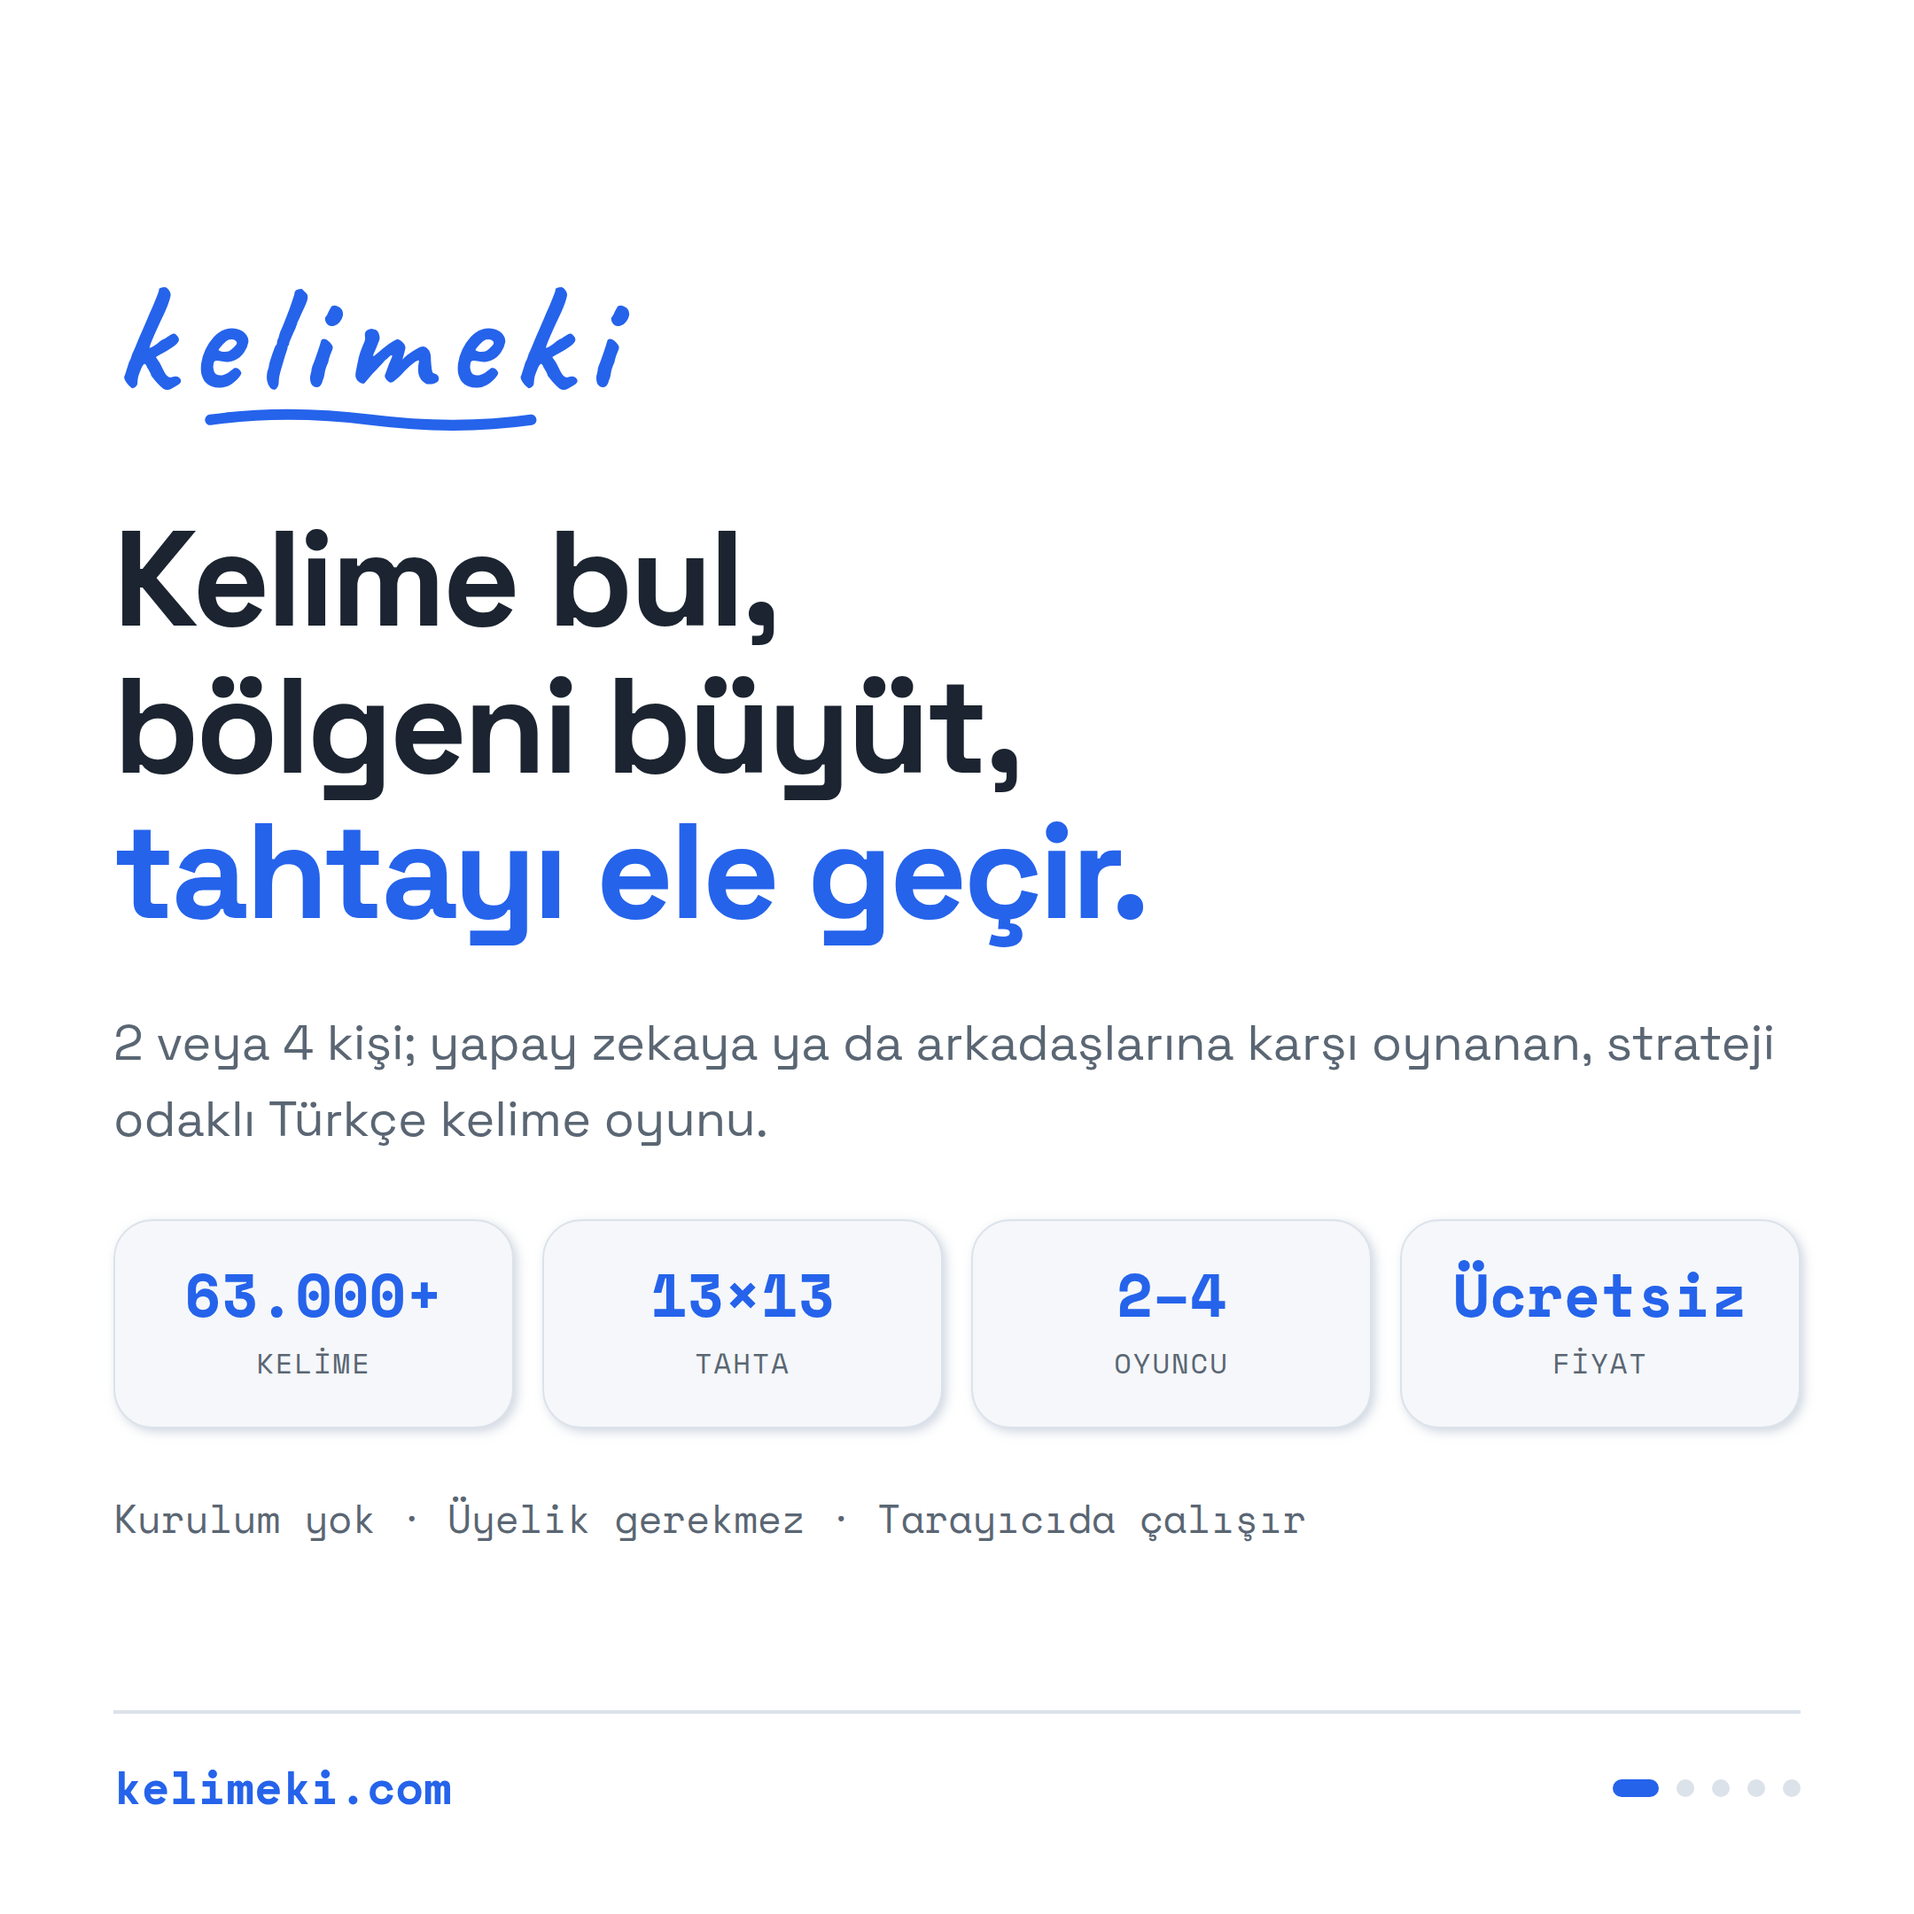
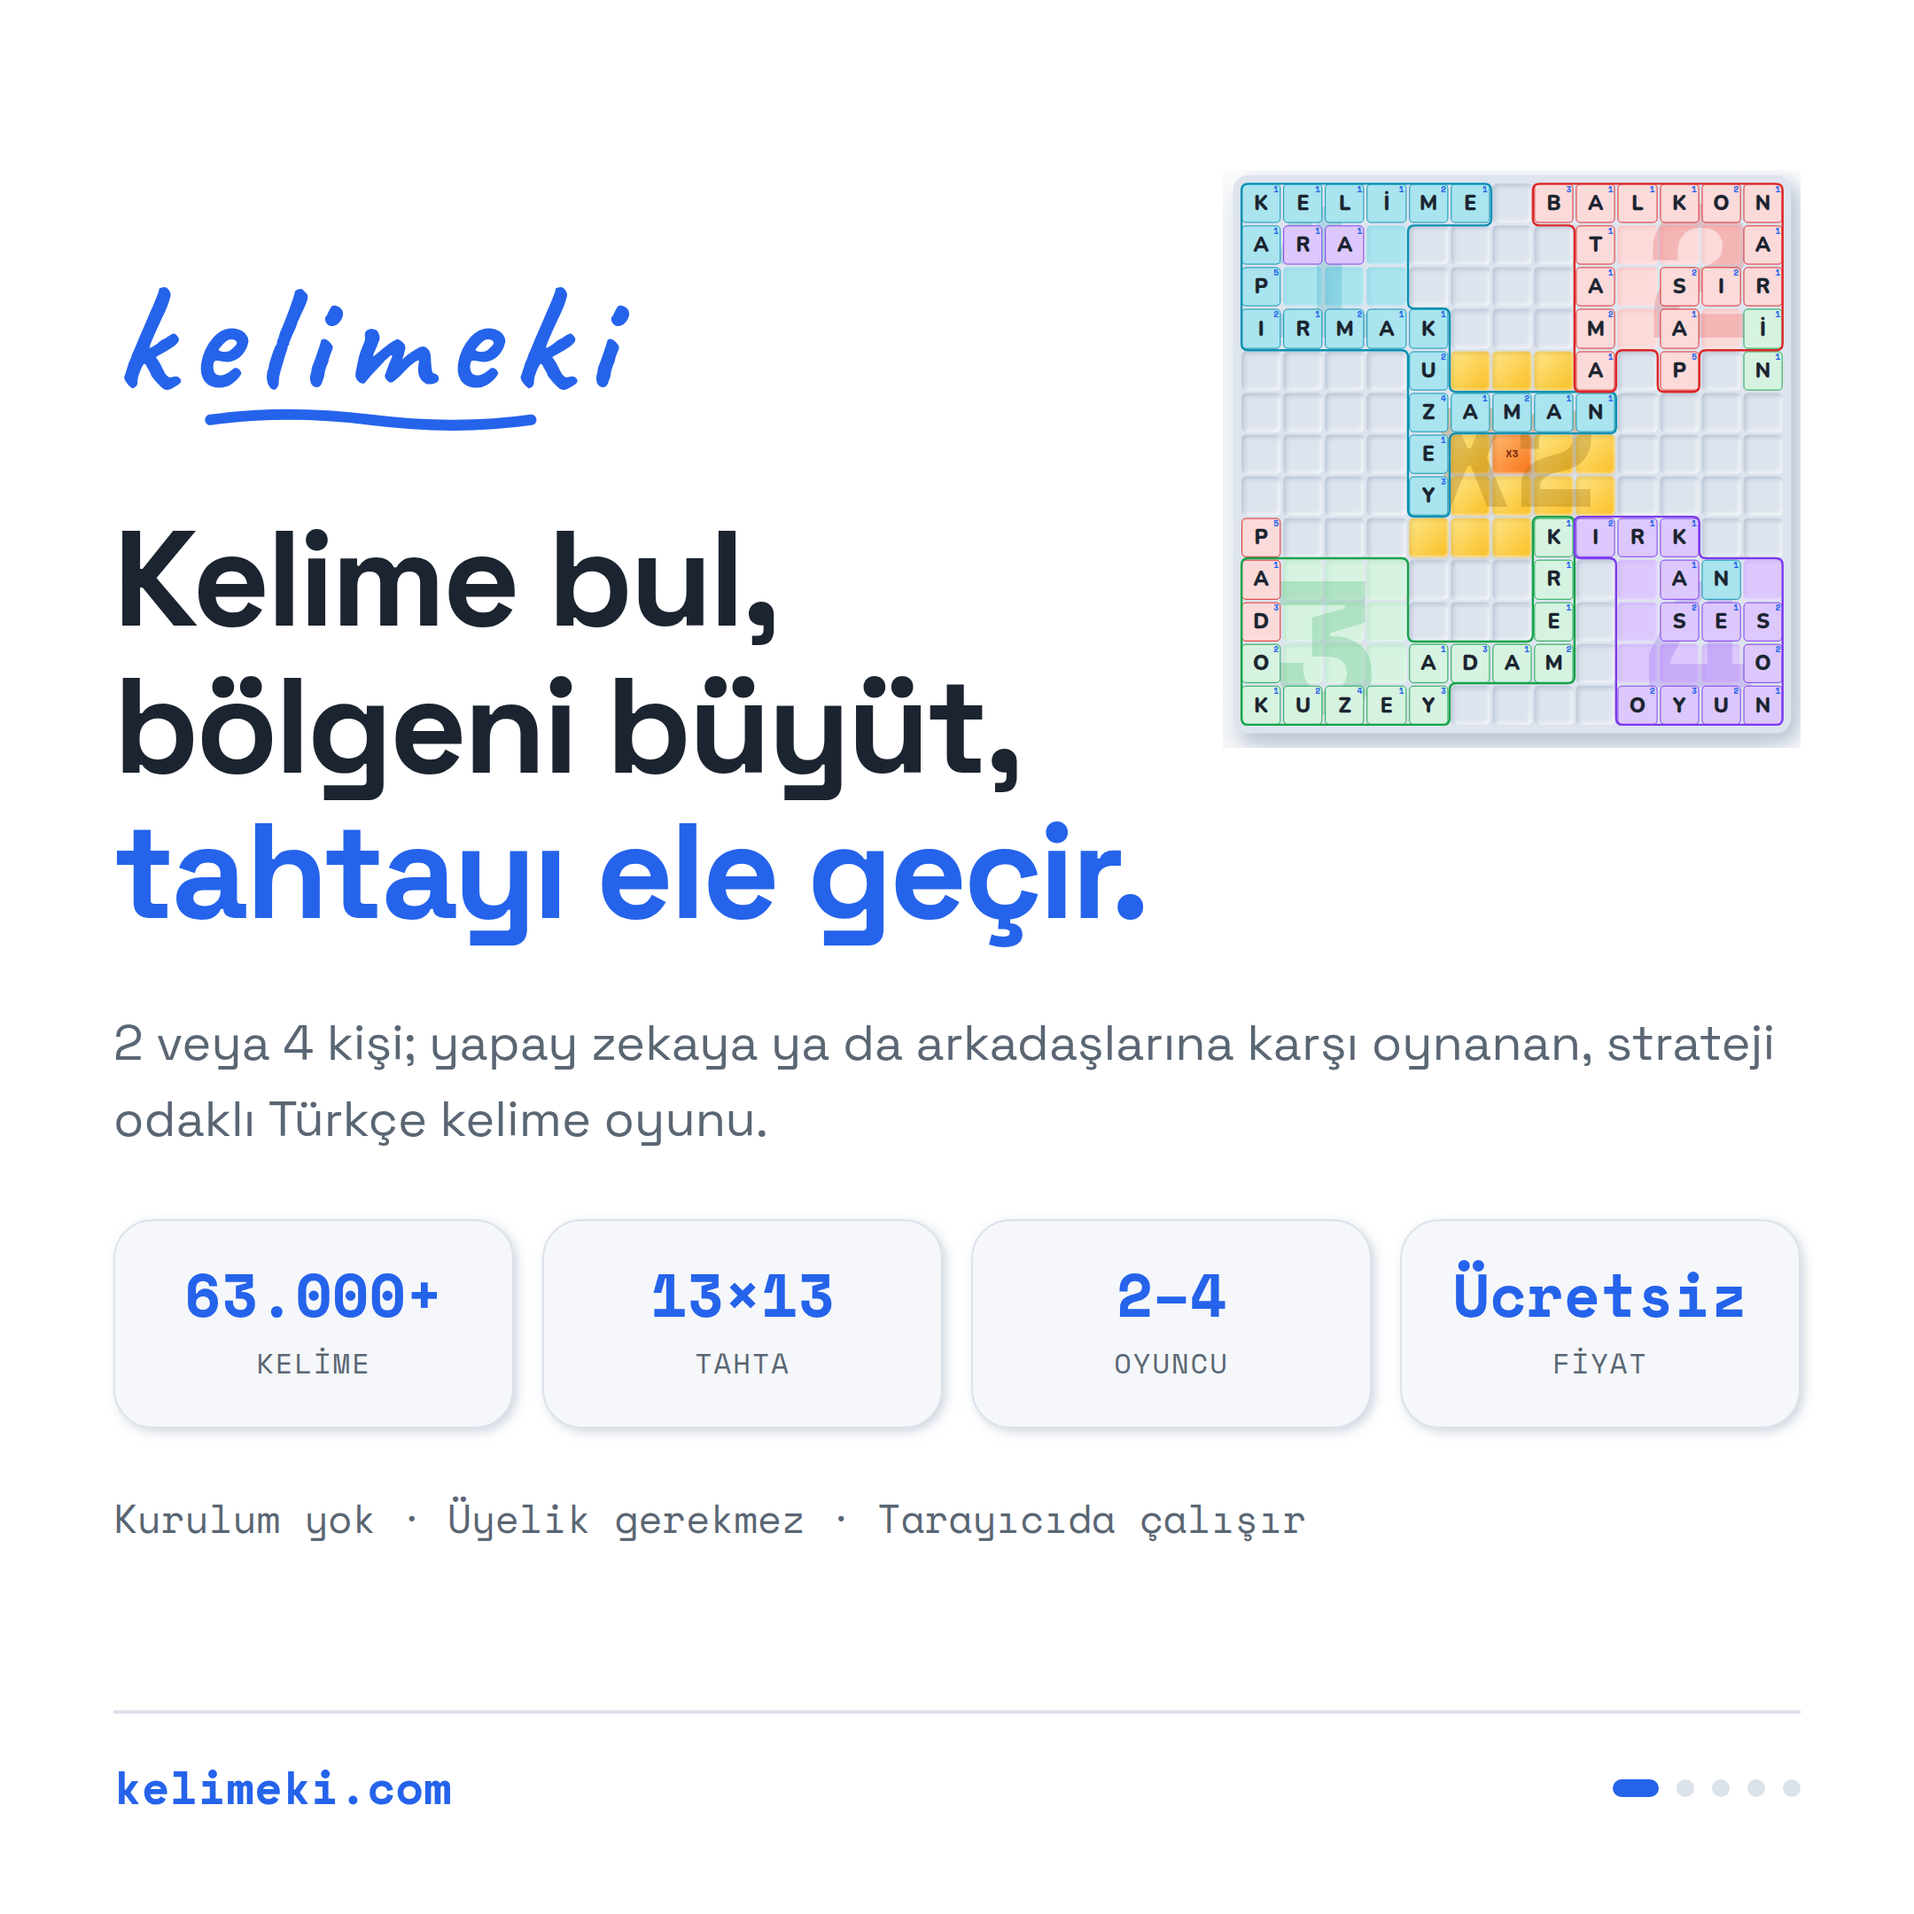
Kanca karesinin sağ üst boşluğuna 4 kişilik tahta
Kare 1'de oyundan hiç görüntü yoktu ve sağ üst köşe boştu; oraya 4 kişilik
tanıtım tahtası kondu (mutlak konumlu — akışa girseydi dikeyde ortalanan
metin bloğunu yerinden oynatırdı).

Ölçü tahminle değil mürekkeple seçildi: h1'in KUTUSU tam genişlikte ama en
uzun satırının mürekkebi x=647'de bitiyor ve üçüncü satır y=443'te başlıyor.
İlk deneme (scale 0.52, top 100) tahtayı x=662'ye koyuyor, yatayda yalnızca
15 px bırakıyor ve alt kenarı üçüncü satırın hizasına giriyordu. Nihai değer
(scale 0.48, top 96) tahtayı 690–1016 × 96–422'ye oturtuyor: metinle yatay
boşluk 42.4 px, üçüncü satırla dikey çakışma yok, beş karede de taşma 0.

Öteki dört PNG bayt bayt aynı kaldı — Slide'a eklenen position:relative'in
yan etkisi olmadığının kanıtı.

Claude-Session: https://claude.ai/code/session_01FaUXUCqTzNWuBtY4ZxMgeJ

Changed region(s): [[0.6204, 0.0931, 0.9616, 0.4032]]

diff --git a/scripts/sponsored-post/SponsoredPost.tsx b/scripts/sponsored-post/SponsoredPost.tsx
@@ -151,6 +151,9 @@ function Slide({ no, children }: { no: number; children: React.ReactNode }) {
         display: 'flex',
         flexDirection: 'column',
         overflow: 'hidden',
+        // Kare 1'in sağ üstündeki tahta MUTLAK konumlu — akışa girseydi
+        // dikeyde ortalanan metin bloğunu yerinden oynatırdı.
+        position: 'relative',
       }}
     >
       {children}
@@ -399,6 +402,32 @@ export function SponsoredPost() {
 
       {/* ── 1 · Kanca ──────────────────────────────────────────────────── */}
       <Slide no={1}>
+        {/* Sağ üst köşe boştu; kanca karesinde oyundan HİÇ görüntü yoktu.
+            ⚠ Ölçü tahminle DEĞİL mürekkeple seçildi (1080 CSS px): kahraman
+            başlığın KUTUSU tam genişlikte, ama en uzun satırının mürekkebi
+            x=647'de bitiyor ve üçüncü satır y=443'te başlıyor. İlk deneme
+            (scale 0.52, top 100) tahtayı x=662'ye koyuyordu — yatayda yalnızca
+            15 px kalıyor ve tahtanın alt kenarı üçüncü satırın hizasına
+            giriyordu. Bugünkü değerlerle tahta 690–1016 × 96–422: metinle
+            yatay boşluk ~43 px ve üçüncü satırla dikey ÇAKIŞMA HİÇ YOK.
+            Mutlak konumlu olduğundan dikeyde ortalanan metin bloğuna
+            dokunmuyor. */}
+        <div style={{ position: 'absolute', top: 96, right: PAD_X }} aria-hidden="true">
+          <Tahta scale={0.48}>
+            <GameBoardPreview
+              snapshot={DEMO_TILES_4}
+              playerCount={4}
+              compact={false}
+              players={[
+                { name: 'Sen', score: 0, is_ai: false, colorIndex: 0 },
+                { name: '2. oyuncu', score: 0, is_ai: false, colorIndex: 1 },
+                { name: '3. oyuncu', score: 0, is_ai: false, colorIndex: 2 },
+                { name: '4. oyuncu', score: 0, is_ai: false, colorIndex: 3 },
+              ]}
+            />
+          </Tahta>
+        </div>
+
         <div
           style={{
             flex: 1,

diff --git a/marketing/sponsored-2026-08/metin.md b/marketing/sponsored-2026-08/metin.md
@@ -10,7 +10,7 @@ Kare oran hem LinkedIn hem Instagram/Facebook carousel'inde çalışır.
 
 | # | Kare | Görevi |
 |---|---|---|
-| 1 | Logo + "Kelime bul, bölgeni büyüt, tahtayı ele geçir." + rakamlar | Durdurucu: bu ne, kime |
+| 1 | Logo + "Kelime bul, bölgeni büyüt, tahtayı ele geçir." + sağ üstte 4 kişilik tahta + rakamlar | Durdurucu: bu ne, kime |
 | 2 | Gerçek 2 kişilik tahta + X2/X3 | Kanıt: ekran görüntüsü değil, oyunun kendisi |
 | 3 | Dört adım (köşe → bölge → merkez → vergi) | **Asıl fark** — neden başka bir kelime oyunu değil |
 | 4 | 4 kişilik tahta + YZ / canlı / sohbet | Kiminle oynanır (48 saat kuralı itirazı kapatıyor) |
